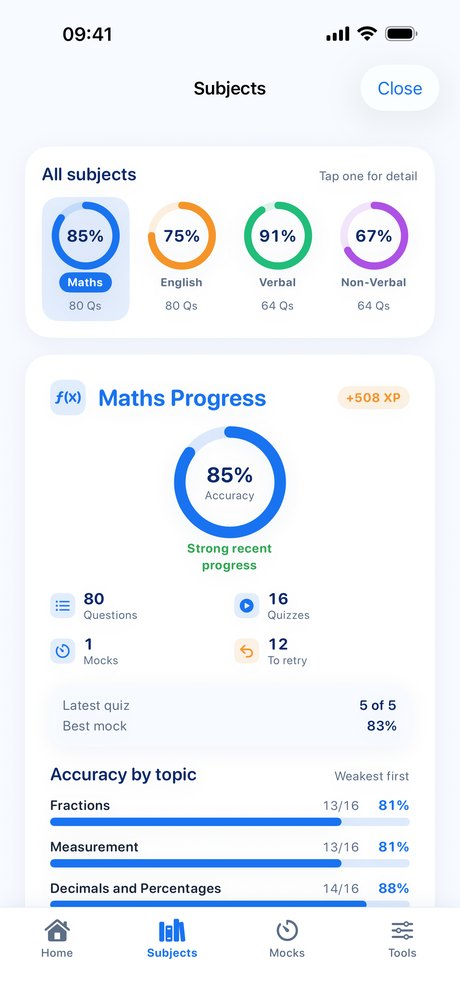
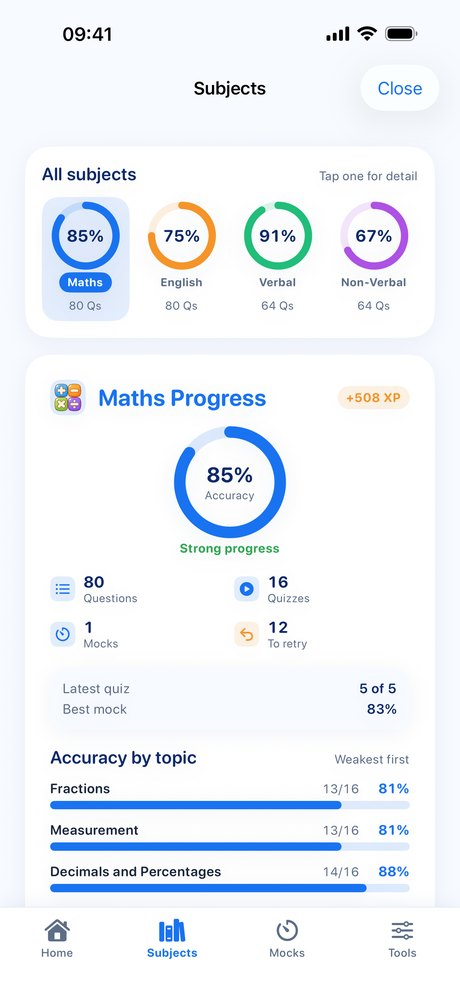
Every app screenshot re-shot from the current app (2.1/2.2)
18 shots from the 2.1 App Store captures and two new English/Verbal
question shots (Check button), at exactly 460x1000; alt text rewritten to
match. Taco's Corner copy now describes Taco's cage, upgrades and shed
instead of the old unlock road.

Changed region(s): [[0.0913, 0.558, 0.8826, 0.93], [0.3957, 0.527, 0.6696, 0.682], [0.1217, 0.372, 0.1826, 0.434]]

diff --git a/kids/index.html b/kids/index.html
@@ -108,7 +108,7 @@
           <p>Practice reminders (if you turn them on in Parent Mode) arrive as friendly nudges at times you choose — and Holiday Mode pauses everything, streak protected, while you're away.</p>
         </div>
         <aside>
-          <div class="shot"><img src="/assets/screens/app-maths-home-sm.jpg" alt="Today's Maths Mission: 10 questions in about 8 minutes, up to 150 XP, a Learn it first link and a Start Mission button" width="460" height="1000" loading="lazy"></div>
+          <div class="shot"><img src="/assets/screens/app-maths-home-sm.jpg" alt="The Maths home: today's Maths Mission of 10 questions in about 8 minutes, up to 150 XP, a Learn it first link and a Start Mission button, then more ways to practise" width="460" height="1000" loading="lazy"></div>
           <div class="shot-caption">Ten questions, about eight minutes, up to 150 XP.</div>
         </aside>
       </div>
@@ -128,7 +128,7 @@
           <p>It sounds like a small thing. It isn't: "how far has Taco got?" turns ten questions into something worth finishing, and children can see at a glance that the end is close.</p>
         </div>
         <aside>
-          <div class="shot"><img src="/assets/screens/app-question-english-sm.jpg" alt="An English question, question 1 of 10, with Taco at the start of the progress bar" width="460" height="1000" loading="lazy"></div>
+          <div class="shot"><img src="/assets/screens/app-question-english-sm.jpg" alt="English reading comprehension question on the passage Crossing by Moonlight: where did Hannah and Omar finish in the race, with answer options and a Check button" width="460" height="1000" loading="lazy"></div>
           <div class="shot-caption">Question one, and Taco is ready to go.</div>
         </aside>
       </div>
@@ -137,7 +137,7 @@
     <section id="xp">
       <div class="guide-section flip">
         <aside>
-          <div class="shot"><img src="/assets/screens/app-progress-sm.jpg" alt="Progress: look how far you've come, a weekly goal of 5 of 5 practice days, subject mastery for all four subjects and topics mastered" width="460" height="1000" loading="lazy"></div>
+          <div class="shot"><img src="/assets/screens/app-progress-sm.jpg" alt="Progress: look how far you've come, this week's practice goal reached, subject mastery for all four subjects and the topics mastered in each" width="460" height="1000" loading="lazy"></div>
           <div class="shot-caption">Their own Progress screen: goals, subjects and topics mastered.</div>
         </aside>
         <div class="guide-copy">
@@ -145,7 +145,8 @@
           <h2>XP, streaks and things worth unlocking</h2>
           <p>Every question earns XP for effort — and right answers earn much more, with harder questions worth the most and a quiet bonus for answering without help. Beating a question you got wrong earlier pays in full. Practising on consecutive days builds a <b>streak</b>, and XP totals unlock real things inside the app:</p>
           <ul>
-            <li><b>New looks for Taco</b> — new poses and backgrounds along Taco's unlock road, each unlocked by lifetime XP from any subject.</li>
+            <li><b>Taco's cage</b> — 51 things to earn for Taco's home, from water bottles and bowls to houses, wheels and themed sets, each unlocked by lifetime XP from any subject. They choose what goes in.</li>
+            <li><b>New looks for Taco</b> — new poses and backgrounds, also unlocked by XP.</li>
             <li><b>Progress towards rewards you set</b> — the cinema trip or new bike you've promised, tracked on a bar they can see fill up.</li>
             <li><b>Weekly goals</b> — practice days this week, questions answered and mocks taken, across all four subjects.</li>
           </ul>
@@ -177,7 +178,7 @@
     <section id="taco-help">
       <div class="guide-section flip">
         <aside>
-          <div class="shot"><img src="/assets/screens/app-taco-hint-sm.jpg" alt="A maths question with Taco's hint open: let's look at the first step, line up the decimal points, and an I need another hint button" width="460" height="1000" loading="lazy"></div>
+          <div class="shot"><img src="/assets/screens/app-taco-hint-sm.jpg" alt="A maths question about a mean age, with Taco's hint open: let's look at the first step, if you know the mean and how many values there are, multiply them to find the total" width="460" height="1000" loading="lazy"></div>
           <div class="shot-caption">A way in, not the answer.</div>
         </aside>
         <div class="guide-copy">
@@ -194,11 +195,11 @@
         <div class="guide-copy">
           <div class="kicker">Their space</div>
           <h2>Taco's Corner</h2>
-          <p>The Taco tab is your child's own corner of the app. Taco is big here, and he <b>reacts when you tap him</b>. Underneath sit their <b>XP and rewards</b>, and <b>Taco's unlock road</b>: the new looks they've earned so far and the next one coming up, with how much XP is still to go.</p>
+          <p>The Taco tab is your child's own corner of the app. Taco is big here, and he <b>reacts when you tap him</b>. At the top is <b>Taco's cage</b>: tap the things in it and Taco has a drink, a snack, a nap or a run on his wheel. Underneath are the <b>upgrades</b> still to earn, with how much XP each needs, and <b>Taco's shed</b>, where everything they've earned is kept for them to put in or take out.</p>
           <p>It's also where they choose the app's colours.</p>
         </div>
         <aside>
-          <div class="shot"><img src="/assets/screens/app-taco-corner-sm.jpg" alt="Taco's Corner: a big Taco saying Hi Casey, tap me, 2,340 XP earned, and Taco's unlock road of new looks" width="460" height="1000" loading="lazy"></div>
+          <div class="shot"><img src="/assets/screens/app-taco-corner-sm.jpg" alt="Taco's Corner: Taco's cage with 17 of 51 pieces earned, Taco saying Hi Casey tap me, and upgrades to earn with XP such as a mini fountain, a cosy cottage and a turbo wheel" width="460" height="1000" loading="lazy"></div>
           <div class="shot-caption">Tap Taco, and see what unlocks next.</div>
         </aside>
       </div>

diff --git a/subjects/index.html b/subjects/index.html
@@ -74,7 +74,7 @@
       <div class="subject-detail">
         <aside class="shot-pair subj-pair">
           <div class="shot"><img src="/assets/screens/app-lesson-fractions-sm.jpg" alt="Maths lesson Fractions of amounts, step 3 of 9: a bar model of 24 split into four parts of 6, showing three quarters of 24 is 18" width="460" height="1000" loading="lazy"></div>
-          <div class="shot"><img src="/assets/screens/app-question-maths-sm.jpg" alt="Maths question: a plank is 3.54 m long and Finley cuts off pieces of 1.7 m and 1.4 m, how much is left, with five answers" width="460" height="1000" loading="lazy"></div>
+          <div class="shot"><img src="/assets/screens/app-question-maths-sm.jpg" alt="Maths question, 1 of 10: four children are aged 6, 9, 7 and 10, a fifth joins and the mean rises by 3, how old is the fifth child, with five answers and a Check button" width="460" height="1000" loading="lazy"></div>
         </aside>
         <div class="subject-copy">
           <span class="chip" style="--chip:#946000">Maths</span>
@@ -89,7 +89,7 @@
       <div class="subject-detail flip">
         <aside class="shot-pair subj-pair">
           <div class="shot"><img src="/assets/screens/app-lesson-english-sm.jpg" alt="English lesson Apostrophes, step 2 of 11: Job one, missing letters, with do not becoming don't, it is becoming it's and they are becoming they're" width="460" height="1000" loading="lazy"></div>
-          <div class="shot"><img src="/assets/screens/app-question-english-sm.jpg" alt="English cloze question from the passage The Lost Puppy: choose the best word for gap 1, with five word options" width="460" height="1000" loading="lazy"></div>
+          <div class="shot"><img src="/assets/screens/app-question-english-sm.jpg" alt="English reading comprehension question on the passage Crossing by Moonlight: where did Hannah and Omar finish in the race, with answer options and a Check button" width="460" height="1000" loading="lazy"></div>
         </aside>
         <div class="subject-copy">
           <span class="chip" style="--chip:#1A6FD6">English</span>
@@ -104,7 +104,7 @@
       <div class="subject-detail">
         <aside class="shot-pair subj-pair">
           <div class="shot"><img src="/assets/screens/app-lesson-verbal-sm.jpg" alt="Verbal Reasoning lesson Letter sequences, step 2 of 8: count the jumps, with C, E, G and I highlighted in the alphabet and K coming next" width="460" height="1000" loading="lazy"></div>
-          <div class="shot"><img src="/assets/screens/app-question-verbal-sm.jpg" alt="Verbal Reasoning compound words question: which one word can follow TEA, EGG and MEASURING, with five options" width="460" height="1000" loading="lazy"></div>
+          <div class="shot"><img src="/assets/screens/app-question-verbal-sm.jpg" alt="Verbal Reasoning hidden words question: find the four-letter word hidden across two neighbouring words in Did each child get a prize, with five options" width="460" height="1000" loading="lazy"></div>
         </aside>
         <div class="subject-copy">
           <span class="chip" style="--chip:#0F7A4C">Verbal Reasoning</span>
@@ -119,7 +119,7 @@
       <div class="subject-detail flip">
         <aside class="shot-pair subj-pair">
           <div class="shot"><img src="/assets/screens/app-lesson-nvr-sm.jpg" alt="Non-Verbal Reasoning lesson Mirror images, step 2 of 8: a mirror flips, with an arrow reflected across a dashed vertical mirror line" width="460" height="1000" loading="lazy"></div>
-          <div class="shot"><img src="/assets/screens/app-question-nvr-sm.jpg" alt="Non-Verbal Reasoning shape sequence question: which option is missing from the series, with drawn shape options" width="460" height="1000" loading="lazy"></div>
+          <div class="shot"><img src="/assets/screens/app-question-nvr-sm.jpg" alt="Non-Verbal Reasoning question on Rotations: which option shows the figure rotated 180 degrees clockwise, with drawn shape options" width="460" height="1000" loading="lazy"></div>
         </aside>
         <div class="subject-copy">
           <span class="chip" style="--chip:#8A36C2">Non-Verbal Reasoning</span>

diff --git a/guide/index.html b/guide/index.html
@@ -181,7 +181,7 @@
     <section id="mastery">
       <div class="guide-section flip">
         <aside>
-          <div class="shot"><img src="/assets/screens/app-mastery-climb-sm.jpg" alt="A Master a Skill question at level 3 in Fractions: work out 6 1/7 minus 2 2/7 as a mixed number" width="460" height="1000" loading="lazy"></div>
+          <div class="shot"><img src="/assets/screens/app-mastery-climb-sm.jpg" alt="A Master a Skill question at level 3 in Fractions: work out 3 1/11 minus 2 3/11 as a mixed number" width="460" height="1000" loading="lazy"></div>
           <div class="shot-caption">Three in a row moves them up a level.</div>
         </aside>
         <div class="guide-copy">
@@ -210,7 +210,7 @@
     <section id="child-day">
       <div class="guide-section flip">
         <aside>
-          <div class="shot"><img src="/assets/screens/app-nvr-mission-sm.jpg" alt="Today's Non-Verbal Mission: 10 questions in about 8 minutes, up to 150 XP, with a Learn it first link for Rotations above the Start Mission button" width="460" height="1000" loading="lazy"></div>
+          <div class="shot"><img src="/assets/screens/app-nvr-mission-sm.jpg" alt="Today's Non-Verbal Mission: 10 questions in about 8 minutes on rotations, matrices, missing pieces and codes, up to 150 XP, with a Learn it first link for Rotations above the Start Mission button" width="460" height="1000" loading="lazy"></div>
           <div class="shot-caption">A daily mission, with a lesson link for anything new.</div>
         </aside>
         <div class="guide-copy">
@@ -391,11 +391,11 @@
         <aside>
           <div class="shot-pair">
             <div>
-          <div class="shot"><img src="/assets/screens/app-mocks-sm.jpg" alt="Mocks and Baseline: best and average mock scores for Maths, English and Non-Verbal, and a list of recent mocks" width="460" height="1000" loading="lazy"></div>
+          <div class="shot"><img src="/assets/screens/app-mocks-sm.jpg" alt="Mock Tests: which mock today, timed like the real thing, with each subject's last mock score" width="460" height="1000" loading="lazy"></div>
           <div class="shot-caption">Per-subject mock performance.</div>
             </div>
             <div>
-          <div class="shot"><img src="/assets/screens/app-readiness-sm.jpg" alt="Readiness: How is Casey doing, 80% overall, with Maths 85%, English 75%, Verbal 91% and Non-Verbal 67%, and good next climbs" width="460" height="1000" loading="lazy"></div>
+          <div class="shot"><img src="/assets/screens/app-readiness-sm.jpg" alt="Readiness: How is Casey doing, 80% overall across four subjects, with Maths 85%, English 75%, Verbal 91% and Non-Verbal 67%, plus mock trend and consistency" width="460" height="1000" loading="lazy"></div>
           <div class="shot-caption">Readiness that won't flatter.</div>
             </div>
           </div>

diff --git a/index.html b/index.html
@@ -106,7 +106,7 @@
           </div>
         </li>
         <li class="hm-step">
-          <figure class="hm-step-shot"><img src="/assets/screens/app-taco-hint-sm.jpg" alt="A maths question about a plank 3.54 metres long, with Taco's hint open: line up the decimal points and write whole numbers with .0 or .00" width="460" height="1000" loading="lazy"></figure>
+          <figure class="hm-step-shot"><img src="/assets/screens/app-taco-hint-sm.jpg" alt="A maths question about a mean age, with Taco's hint open: let's look at the first step, if you know the mean and how many values there are, multiply them to find the total" width="460" height="1000" loading="lazy"></figure>
           <div class="hm-step-copy">
             <span class="hm-step-n" style="--c:var(--orange)">2</span>
             <h3>Practise it</h3>
@@ -195,7 +195,7 @@
     <section class="hm-taco">
       <div class="hm-split hm-split-flip">
         <div class="hm-split-art">
-          <figure class="hm-phone hm-phone-single"><img src="/assets/screens/app-taco-corner-sm.jpg" alt="Taco's Corner: a big Taco waving with a speech bubble saying Hi Casey, tap me, 2,340 XP earned, and Taco's unlock road of new looks" width="460" height="1000" loading="lazy"></figure>
+          <figure class="hm-phone hm-phone-single"><img src="/assets/screens/app-taco-corner-sm.jpg" alt="Taco's Corner: Taco's cage with 17 of 51 pieces earned, Taco saying Hi Casey tap me, and upgrades to earn with XP such as a mini fountain, a cosy cottage and a turbo wheel" width="460" height="1000" loading="lazy"></figure>
         </div>
         <div class="hm-split-copy">
           <p class="kicker">Meet the coach</p>

diff --git a/taco/index.html b/taco/index.html
@@ -95,11 +95,11 @@
 
       <div class="subject-detail taco-corner-block">
         <aside class="subj-single">
-          <div class="shot"><img src="/assets/screens/app-taco-corner-sm.jpg" alt="Taco's Corner: a big Taco saying Hi Casey, tap me, 2,340 XP earned, and Taco's unlock road of new looks" width="460" height="1000" loading="lazy"></div>
+          <div class="shot"><img src="/assets/screens/app-taco-corner-sm.jpg" alt="Taco's Corner: Taco's cage with 17 of 51 pieces earned, Taco saying Hi Casey tap me, and upgrades to earn with XP such as a mini fountain, a cosy cottage and a turbo wheel" width="460" height="1000" loading="lazy"></div>
         </aside>
         <div class="subject-copy">
           <h3>Taco's Corner: a reason to come back tomorrow</h3>
-          <p>Taco has his own tab. He's big there, he reacts when your child taps him, and his <b>unlock road</b> shows the new looks they've earned and the next one coming up. Every answer earns XP, and XP moves Taco along the road — so a few questions today is always progress towards something.</p>
+          <p>Taco has his own tab. He lives in <b>his own cage</b> there, and your child fills it: 51 things to earn with XP, from bowls and bottles to houses, wheels and themed sets. Tap them and Taco uses them. Every answer earns XP, and the next upgrade shows exactly how much is still to go, so a few questions today is always progress towards something.</p>
         </div>
       </div>
 

diff --git a/support/index.html b/support/index.html
@@ -148,7 +148,7 @@
     </details>
     <details>
       <summary>Can my child personalise the app?</summary>
-      <p>They can pick one of six colour themes for their screens, and earn XP to unlock new looks for Taco along his unlock road in Taco's Corner. Each child's choices are their own. There's nothing to buy inside the child's app; everything is earned with practice.</p>
+      <p>They can pick one of six colour themes for their screens, and earn XP for things in Taco's cage and new looks for Taco in Taco's Corner. Each child's choices are their own. There's nothing to buy inside the child's app; everything is earned with practice.</p>
     </details>
   </div>
 
